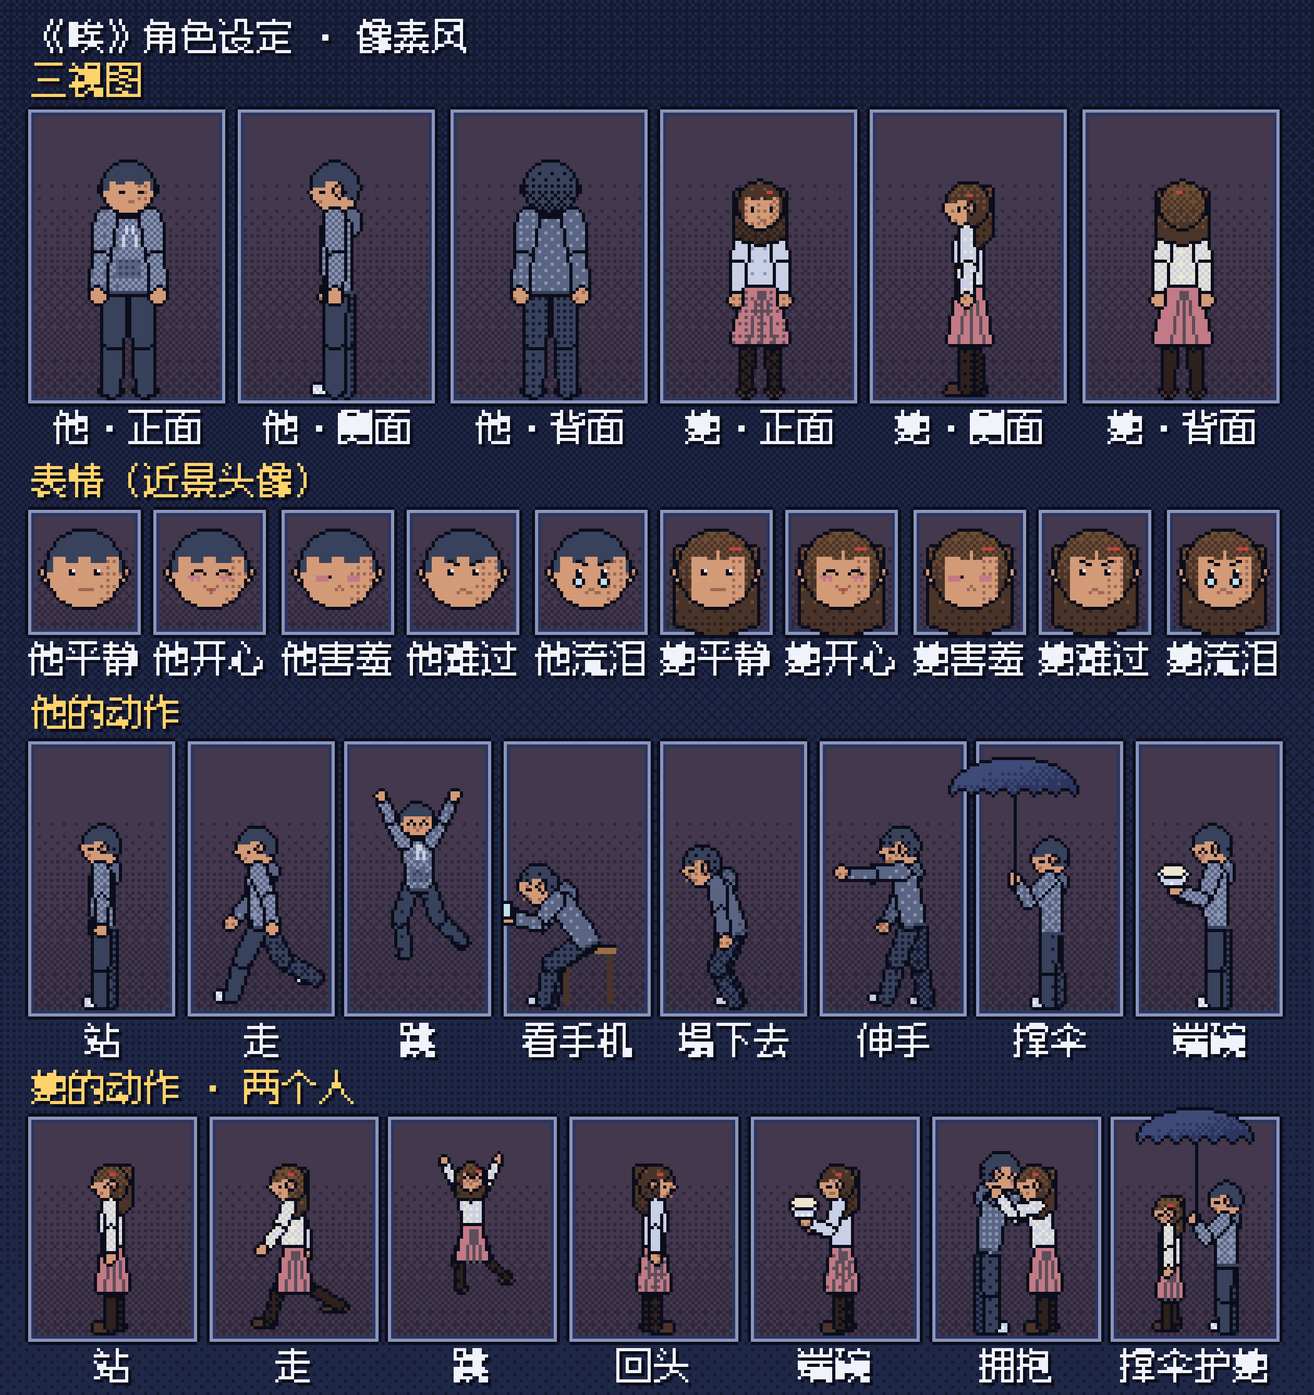
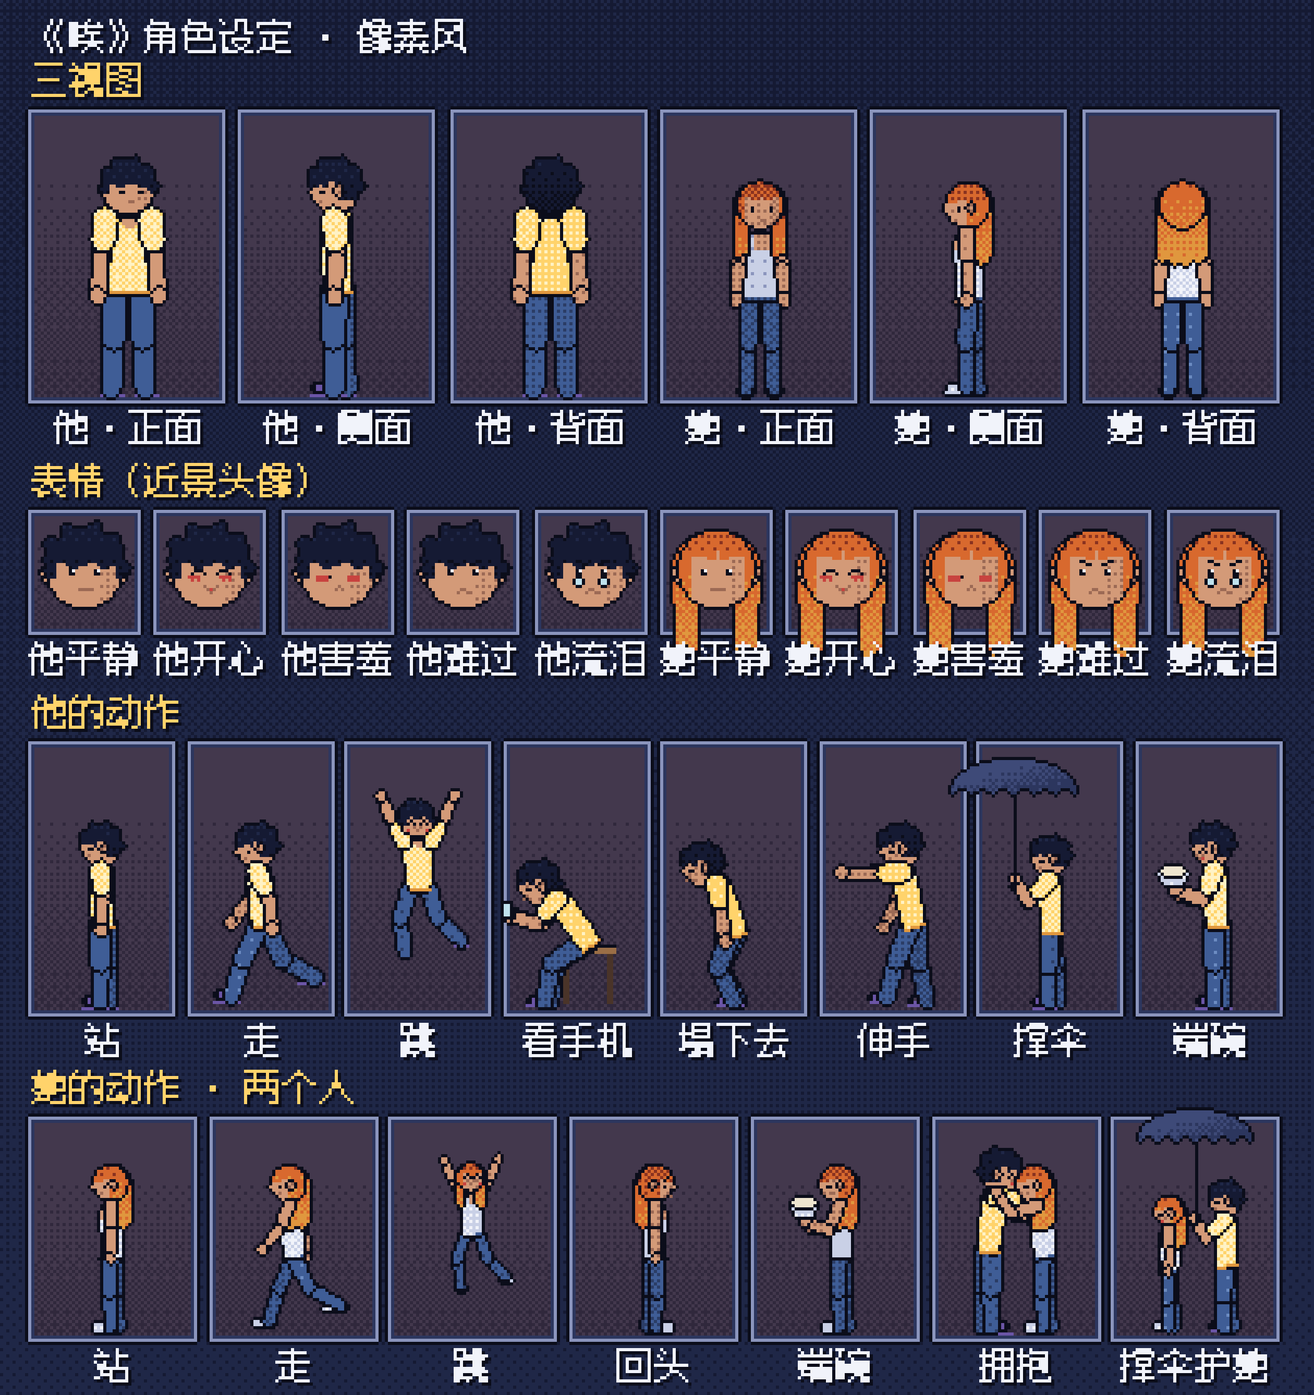
唉：角色造型按专辑封面（黄T牛仔裤/橙红长发白吊带），他的发型按参考照

diff --git a/projects/zhangfangzhao-ai/character.js b/projects/zhangfangzhao-ai/character.js
@@ -1,6 +1,7 @@
 /* character.js：《唉》的两个主角，像素风（依赖 lib/pixel.js）。
-   他 'him'：24 岁，灰蓝卫衣（背后搭着帽子）、深色裤子、白球鞋，短黑发。
-   她 'her'：只在回忆里出现，齐肩棕发、右边一枚红发夹，米白毛衣、豆沙粉半身裙、棕色小皮鞋。
+   造型按专辑封面（衣着、发色）和用户给的参考照（他的发型）：
+   他 'him'：24 岁，蓬松凌乱的黑发、刘海盖到眉上；黄色短袖 T 恤、牛仔裤、紫色拖鞋。SPEC.him.sleeve = 0 即换成黄背心。
+   她 'her'：只在回忆里出现，过肩的橙红长发（发根深、发尾亮）；白色吊带背心、牛仔裤、白色帆布鞋。
    整个人直接光栅化在 320×240 的逻辑画布上：每段身体一个形状，自动描 1 像素墨蓝轮廓，按光抖动上色。
    骨架算姿势，但时间按一秒 12 张取整、走路固定 4 帧、位置取整 —— 看起来是逐帧换画，不是补间。
 
@@ -24,10 +25,10 @@
   const { RAMP, C, clamp, lerp, smooth, rnd } = window.PIX;
   const TAU = Math.PI * 2, REF = 600;
   const SPEC = {
-    him: { headR: 66, sw: 60, hw: 34, upper: 108, fore: 92, thigh: 140, shin: 132, armR: [27, 22, 21, 18], legR: [31, 27, 26, 22],
-      top: RAMP.hood, bottom: RAMP.pants, hair: RAMP.hairHim, shoe: RAMP.shoeHim },
-    her: { headR: 64, sw: 50, hw: 30, upper: 100, fore: 88, thigh: 140, shin: 132, armR: [22, 19, 18, 16], legR: [21, 18, 17, 15],
-      top: RAMP.sweater, bottom: [0, 13], skirt: RAMP.skirt, hair: RAMP.hairHer, shoe: RAMP.shoeHer },
+    him: { headR: 66, sw: 60, hw: 34, upper: 108, fore: 92, thigh: 140, shin: 132, armR: [25, 21, 20, 17], legR: [32, 28, 27, 24],
+      top: RAMP.tee, sleeve: 0.5, bottom: RAMP.jeans, hair: RAMP.hairHim, shoe: 'slide' },
+    her: { headR: 64, sw: 50, hw: 30, upper: 100, fore: 88, thigh: 140, shin: 132, armR: [19, 17, 16, 14], legR: [25, 22, 21, 18],
+      top: RAMP.cami, sleeve: 0, bottom: RAMP.jeans, hair: RAMP.hairHer, shoe: RAMP.shoeHer },
   };
   const HIP_Y = -280, TORSO = 175, NECK = 24;
   const dir = (a) => [Math.sin(a), Math.cos(a)];
@@ -102,12 +103,16 @@
     const toU = (x) => (x - cx) * flip, toV = (y) => y - cy;
     const big = R >= 10;
     const skinC = (x, y) => G.dith(RAMP.skin, 0.55 + L(x, y) * 0.9 - (toU(x) > 0.3 * R && view !== 'side' ? 0.3 : 0), x, y);
-    const hairC = (x, y) => G.dith(S.hair, 0.35 + L(x, y) * (who === 'her' ? 1.6 : 0.9) - toV(y) / (R * 3), x, y);
+    const hairC = who === 'her' ? (x, y) => G.dith(S.hair, 0.3 + L(x, y) * 1.3 + toV(y) / (R * 3.2), x, y)   // 发根深、发尾亮
+      : (x, y) => G.dith(S.hair, 0.3 + L(x, y) * 0.9 - toV(y) / (R * 3), x, y);
     // 她：脑后的长发（在脸后面）
     if (who === 'her') {
-      const back = view === 'side' ? (u, v) => u > -0.15 * R && u < 1.12 * R && v > -0.85 * R && v < 1.85 * R - Math.max(0, u - 0.6 * R) * 0.8
-        : (u, v) => Math.abs(u) < 1.1 * R && v > -0.6 * R && v < 1.8 * R - Math.abs(u) * 0.3;
-      G.shape([cx - 1.3 * R, cy - R, cx + 1.3 * R, cy + 2 * R], (x, y) => back(toU(x), toV(y)), hairC, 0);
+      const jag = (u) => (Math.floor((u + 3 * R) / Math.max(1.5, R * 0.3)) % 2 ? 0.16 * R : 0);
+      const back = view === 'side' ? (u, v) => u > -0.15 * R && u < 1.15 * R && v > -0.85 * R && v < 2.7 * R - Math.max(0, u - 0.7 * R) * 0.6 - jag(u)
+        : view === 'back' ? (u, v) => Math.abs(u) < 1.15 * R && v > -0.6 * R && v < 2.8 * R - Math.abs(u) * 0.25 - jag(u)
+        : (u, v) => (Math.abs(u) < 1.15 * R && v > -0.6 * R && v < 0.95 * R) || (Math.abs(u) > 0.5 * R && Math.abs(u) < 1.12 * R && v < 2.3 * R - jag(u));
+      const round = (u, v) => v > 0 || (u / (1.15 * R)) ** 2 + (v / (1.02 * R)) ** 2 <= 1;   // 头顶是圆的，不出方角
+      G.shape([cx - 1.3 * R, cy - R, cx + 1.3 * R, cy + 3 * R], (x, y) => { const u = toU(x), v = toV(y); return round(u, v) && back(u, v); }, hairC, 0);
     }
     // 耳朵（正面、背面两边各一个）
     if (view !== 'side') [-1, 1].forEach((s) => G.ellipse(cx + s * R * 0.98, cy + R * 0.1, Math.max(0.8, R * 0.16), Math.max(1, R * 0.24), skinC, 0));
@@ -116,15 +121,24 @@
       : (u, v) => (u / R) ** 2 + (v / (1.02 * R)) ** 2 <= 1;
     let hair;
     if (view === 'back') hair = () => true;
-    else if (who === 'him') hair = view === 'side'
-      ? (u, v) => v < -0.32 * R || (u > 0.1 * R && v < 0.42 * R - Math.max(0, 0.6 * R - u) * 0.2) || (u < -0.45 * R && v < -0.12 * R)
-      : (u, v) => v < -0.22 * R - (Math.floor((u + 2 * R) / Math.max(1.5, R * 0.36)) % 2 ? 0.14 * R : 0) || (Math.abs(u) > 0.84 * R && v < 0.05 * R);
+    else if (who === 'him') {
+      const zig = (u) => (Math.floor((u + 3 * R) / Math.max(1.5, R * 0.28)) % 3) * 0.09 * R;
+      hair = view === 'side'
+        ? (u, v) => v < -0.3 * R || (u > 0.05 * R && v < 0.5 * R - Math.max(0, 0.5 * R - u) * 0.3) || (u < -0.3 * R && v < -0.02 * R - zig(u))
+        : (u, v) => v < -0.06 * R - zig(u) || (Math.abs(u) > 0.8 * R && v < 0.2 * R);
+    }
     else hair = view === 'side'
       ? (u, v) => v < -0.36 * R || u > -0.08 * R && v < 0.95 * R || (u < -0.5 * R && v < -0.18 * R)
       : (u, v) => v < -0.3 * R - Math.abs(u) * 0.12 + (Math.abs(u) < 0.08 * R ? -0.2 * R : 0) || Math.abs(u) > 0.74 * R;
+    // 他的蓬发：比头大一圈、边上一簇一簇翘起来；先垫在脸后面，画完脸再把脸上沿的轮廓线盖掉
+    const blob = (u, v) => { const yy = v + 0.16 * R, a = Math.atan2(yy, u), b = 1 + 0.09 * Math.sin(a * 9 + 0.7) + 0.05 * Math.sin(a * 14);
+      const lim = view === 'side' ? (v < -0.05 * R || (u > 0 && v < 0.45 * R)) : v < 0.12 * R;
+      return lim && (u / (1.1 * R)) ** 2 + (yy / (1.0 * R)) ** 2 <= b * b; };
+    const hb = [cx - 1.4 * R, cy - 1.4 * R, cx + 1.4 * R, cy + 1.2 * R];
+    if (who === 'him') G.shape(hb, (x, y) => blob(toU(x), toV(y)), hairC, 0);
     G.shape([cx - 1.2 * R, cy - 1.1 * R, cx + 1.2 * R, cy + 1.1 * R], (x, y) => face(toU(x), toV(y)), (x, y) => (hair(toU(x), toV(y)) ? hairC(x, y) : skinC(x, y)), 0);
+    if (who === 'him') G.shape(hb, (x, y) => { const u = toU(x), v = toV(y); return blob(u, v) && (hair(u, v) || !face(u, v)); }, hairC, null);
     if (view === 'side') G.ellipse(cx + flip * R * 0.16, cy + R * 0.12, Math.max(0.8, R * 0.13), Math.max(1, R * 0.2), (x, y) => G.dith(RAMP.skin, 0.3 + L(x, y) * 0.6, x, y), 0);   // 侧面的耳朵
-    if (who === 'her') { const [hu, hv] = view === 'side' ? [-0.05 * R, -0.55 * R] : view === 'back' ? [-0.3 * R, -0.6 * R] : [0.3 * R, -0.58 * R]; G.rect(Math.round(cx + flip * hu), Math.round(cy + hv), Math.max(2, Math.round(R * 0.3)), Math.max(1, Math.round(R * 0.12)), C.red); }
     if (view === 'back') return;
     // 五官
     const ex = view === 'side' ? [-0.5 * R] : [-0.36 * R, 0.36 * R], ey = cy + Math.round(0.12 * R);
@@ -139,7 +153,7 @@
         else { G.px(x, ey, 0); if (R >= 7) G.px(x, ey - 1, 0); }
         if (e === 'sad' || e === 'cry') { G.px(x + inner, ey - 3, 0); G.px(x, ey - 2, 0); }
         if (e === 'cry') { G.px(x, ey + 2, C.phone); G.px(x, ey + 3, C.phone); }
-        if (e === 'shy' || e === 'happy') G.px(x - inner * (view === 'side' ? 0 : 1), ey + 2, C.pink);
+        if (e === 'shy' || e === 'happy') G.px(x - inner * (view === 'side' ? 0 : 1), ey + 2, C.blush);
         return;
       }
       const s = R / 14;   // 细节版：头半径 14 时的像素尺寸
@@ -148,7 +162,7 @@
       else { G.ellipse(x, ey, Math.max(1, 1.2 * s), Math.max(1.4, 1.9 * s), 0, null); G.px(x - Math.round(0.5 * s), ey - Math.round(0.9 * s), C.white); }
       if (e === 'sad' || e === 'cry') G.line(x + inner * Math.round(2 * s), ey - Math.round(3.2 * s), x - inner * Math.round(1.6 * s), ey - Math.round(4.4 * s), 0);
       if (e === 'cry') { G.ellipse(x - inner * Math.round(0.4 * s), ey + Math.round(3.6 * s), Math.max(1, 0.9 * s), Math.max(1.2, 1.4 * s), C.phone, 0); }
-      if (e === 'shy' || e === 'happy') G.ellipse(x - inner * Math.round(1.2 * s) * (view === 'side' ? 0 : 1), ey + Math.round(2.8 * s), 2.2 * s, 1 * s, (xx, yy) => G.dith([C.skin, C.pink], e === 'shy' ? 1.1 : 0.7, xx, yy), null);
+      if (e === 'shy' || e === 'happy') G.ellipse(x - inner * Math.round(1.2 * s) * (view === 'side' ? 0 : 1), ey + Math.round(2.8 * s), 2.2 * s, 1 * s, (xx, yy) => G.dith([C.skin, C.blush], e === 'shy' ? 1.1 : 0.7, xx, yy), null);
     });
     const mx = X(mU), w = big ? Math.max(1, Math.round(R * 0.14)) : 1;
     if (e === 'happy') { G.line(mx - w, my - 1, mx, my + (big ? 1 : 0), C.skinDk); G.line(mx, my + (big ? 1 : 0), mx + w, my - 1, C.skinDk); if (big) G.px(mx, my, 31); }
@@ -166,34 +180,49 @@
     const shade = (ramp, base, gain = 1.4) => (x, y) => G.dith(ramp, base + light(x, y) * gain, x, y);
     const r = (v) => Math.max(1, v * k);
     const drawArm = (A, far) => {
-      const top = shade(S.top, far ? 0.1 : 0.55);
-      G.limb(W(A.sh), W(A.el), r(S.armR[0]), r(S.armR[1]), top);
-      G.limb(W(A.el), W(A.wr), r(S.armR[2]), r(S.armR[3]), top);
-      const hd = W(add(A.wr, dir(A.f), 6)); G.ellipse(hd[0], hd[1], r(S.armR[3] + 2), r(S.armR[3] + 3), shade(RAMP.skin, far ? 0.1 : 0.5, 0.9), 0);
+      const sk = shade(RAMP.skin, far ? 0.1 : 0.5, 0.9);
+      G.limb(W(A.sh), W(A.el), r(S.armR[0]), r(S.armR[1]), sk);
+      G.limb(W(A.el), W(A.wr), r(S.armR[2]), r(S.armR[3]), sk);
+      const hd = W(add(A.wr, dir(A.f), 6)); G.ellipse(hd[0], hd[1], r(S.armR[3] + 2), r(S.armR[3] + 3), sk, 0);
+      if (S.sleeve > 0) { const m = add(A.sh, dir(A.s), S.upper * S.sleeve); G.limb(W(A.sh), W(m), r(S.armR[0] + 6), r(S.armR[0] + 4), shade(S.top, far ? 0.2 : 0.75, 1.3)); }
     };
     const drawLeg = (Lg, far) => {
       const b = shade(S.bottom, far ? 0 : 0.35, 1.0);
       const an = W(Lg.an);
-      if (J.side) { const toe = mx; G.poly([[an[0] - toe * r(56), an[1] - r(10)], [an[0] + toe * r(20), an[1] - r(12)], [an[0] + toe * r(22), an[1] + r(14)], [an[0] - toe * r(60), an[1] + r(14)]], shade(S.shoe, far ? 0.2 : 0.6, 1.2), 0); }
+      const toe = mx, sk = shade(RAMP.skin, far ? 0.1 : 0.45, 0.8);
+      if (S.shoe === 'slide') {
+        if (J.side) {
+          G.poly([[an[0] - toe * r(54), an[1] - r(4)], [an[0] + toe * r(16), an[1] - r(10)], [an[0] + toe * r(18), an[1] + r(10)], [an[0] - toe * r(58), an[1] + r(10)]], sk, 0);
+          G.poly([[an[0] - toe * r(46), an[1] - r(8)], [an[0] - toe * r(6), an[1] - r(12)], [an[0] - toe * r(4), an[1] + r(6)], [an[0] - toe * r(48), an[1] + r(6)]], shade(RAMP.slide, far ? 0.2 : 0.8, 0.6), 0);
+          G.line(an[0] - toe * r(62), an[1] + r(14), an[0] + toe * r(22), an[1] + r(14), C.slipper);
+        } else { G.ellipse(an[0], an[1] + r(4), r(24), r(12), sk, 0); G.rect(Math.round(an[0] - r(22)), Math.round(an[1] - r(2)), Math.round(r(44)), Math.max(1, Math.round(r(9))), C.slipper); G.line(an[0] - r(26), an[1] + r(16), an[0] + r(26), an[1] + r(16), C.slipper); }
+      } else if (J.side) G.poly([[an[0] - toe * r(56), an[1] - r(10)], [an[0] + toe * r(20), an[1] - r(12)], [an[0] + toe * r(22), an[1] + r(14)], [an[0] - toe * r(60), an[1] + r(14)]], shade(S.shoe, far ? 0.2 : 0.6, 1.2), 0);
       else G.ellipse(an[0], an[1] + r(4), r(28), r(14), shade(S.shoe, 0.6, 1.2), 0);
       G.limb(W(Lg.kn), W(Lg.an), r(S.legR[2]), r(S.legR[3]), b);
       G.limb(W(Lg.hp), W(Lg.kn), r(S.legR[0]), r(S.legR[1]), b);
     };
     const rot = (p) => { const th = -J.P.lean, c = Math.cos(th), s = Math.sin(th); return W([J.hip[0] + p[0] * c - p[1] * s, J.hip[1] + p[0] * s + p[1] * c]); };
+    const toLocal = (x, y) => { const dx = (x - ox) / (k * mx * J.P.sx) - J.hip[0], dy = (y - oy) / (k * J.P.sy) - J.hip[1], c = Math.cos(J.P.lean), s = Math.sin(J.P.lean); return [dx * c - dy * s, dx * s + dy * c]; };
     const drawTorso = () => {
       const side = J.side, sw = side ? 40 : S.sw + 8, hw = side ? 34 : S.hw + 12;
       const body = [[-hw, 18], [hw, 18], [hw + 4, -40], [sw, -TORSO + 20], [sw - 16, -TORSO - 4], [-sw + 16, -TORSO - 4], [-sw, -TORSO + 20], [-hw - 4, -40]].map(rot);
-      const top = shade(S.top, 0.5, 1.5);
-      if (o.who === 'him' && J.view !== 'front') { const c = rot(side ? [32, -TORSO + 6] : [0, -TORSO + 34]); G.ellipse(c[0], c[1], r(side ? 30 : 54), r(side ? 44 : 40), shade(S.top, 0.2, 1.2), 0); }   // 帽子
-      G.poly(body, top, 0);
-      if (o.who === 'him') {
-        if (J.view === 'front') { G.poly([[-40, -16], [40, -16], [32, -66], [-32, -66]].map(rot), shade(S.top, 0, 1.2), null); const a = rot([-12, -TORSO + 10]), b = rot([-13, -TORSO + 64]), c = rot([12, -TORSO + 10]), d = rot([13, -TORSO + 64]); G.line(a[0], a[1], b[0], b[1], 7); G.line(c[0], c[1], d[0], d[1], 7); }
-        const h0 = rot([-hw, 10]), h1 = rot([hw, 10]); G.line(h0[0], h0[1], h1[0], h1[1], S.top[0]);   // 下摆罗纹
-      } else if (o.who === 'her') {
-        const sk = [[-(side ? 34 : 44), -22], [side ? 34 : 44, -22], [side ? 64 : 86, 140], [-(side ? 64 : 86), 140]].map((p) => W([J.hip[0] + p[0], J.hip[1] + p[1]]));
-        G.poly(sk, shade(S.skirt, 0.45, 1.2), 0);
-        for (const f of [-0.4, 0, 0.4]) { const a = W([J.hip[0] + f * 34, J.hip[1] - 14]), b = W([J.hip[0] + f * 86, J.hip[1] + 132]); G.line(a[0], a[1], b[0], b[1], S.skirt[0]); }
-      }
+      const top = shade(S.top, o.who === 'him' ? 0.6 : 0.5, 1.5), skin = shade(RAMP.skin, 0.45, 0.9), jeans = shade(S.bottom, 0.35, 1.0);
+      let col;
+      if (o.who === 'him') col = (x, y) => {
+        const [lx, ly] = toLocal(x, y);
+        if (!side && J.view === 'front' && Math.abs(lx) < 24 && ly < -TORSO + 2 + 16 * (1 - (lx / 24) ** 2)) return skin(x, y);           // 圆领
+        if (S.sleeve === 0 && !side && Math.abs(lx) > sw - 18 && ly < -TORSO + 70) return skin(x, y);                                      // 背心的袖窿
+        return top(x, y);
+      };
+      else col = (x, y) => {
+        const [lx, ly] = toLocal(x, y);
+        if (ly > 4) return jeans(x, y);                                                                                                     // 吊带塞进牛仔裤
+        const strap = side ? Math.abs(lx) < 7 : Math.abs(Math.abs(lx) - S.sw * 0.55) < 7;
+        if (ly < -TORSO + 42 && !strap) return skin(x, y);                                                                                  // 露肩
+        return top(x, y);
+      };
+      G.poly(body, col, 0);
+      if (o.who === 'him') { const h0 = rot([-hw, 12]), h1 = rot([hw, 12]); G.line(h0[0], h0[1], h1[0], h1[1], S.top[0]); }               // 下摆
     };
     const drawHead = () => { const h = W(J.head); drawHeadAt(G, h[0], h[1] - (J.P.tilt > 0.3 && J.side ? 0 : 0), S.headR * k, o, J.view, mx, light); };
     const neck = () => { const a = W(J.neck), b = W(add(J.neck, [0, 20])); G.limb(a, b, r(16), r(16), shade(RAMP.skin, 0.2, 0.8), null); };

diff --git a/projects/zhangfangzhao-ai/lib/pixel.js b/projects/zhangfangzhao-ai/lib/pixel.js
@@ -12,22 +12,22 @@
   'use strict';
   const PAL = [
     '#0b0d1a', '#151a33', '#1f2747', '#2c365e', '#3e4a78', '#5a6796', '#8b95bd', '#c9d0e6', '#f1f3fa', // 0-8 墨蓝 → 冷白
-    '#221c2c', '#30283c', '#43384d', '#5e4d5a',                                                     // 9-12 墙
+    '#221c2c', '#30283c', '#43384d', '#6b55a6',                                                     // 9-11 墙，12 紫（他的拖鞋）
     '#2e211d', '#4a3429', '#6e4d35', '#9a6e46', '#c4955f',                                          // 13-17 木（13-15 也是她的头发）
-    '#39425c', '#5a6584', '#8a94b2',                                                                // 18-20 卫衣（灰蓝）
+    '#2b3d66', '#3f5d96', '#6c8cc2',                                                                // 18-20 牛仔蓝（两个人的牛仔裤）
     '#9c6a55', '#d39a78',                                                                           // 21-22 皮肤
-    '#ffd36b', '#fff2c4', '#e0973e',                                                                // 23-25 灯（全片唯一强调色）、灯芯、琥珀
+    '#ffd36b', '#fff2c4', '#e0973e',                                                                // 23-25 暖黄（灯 + 他的黄 T 恤，全片唯一强调色）、灯芯、琥珀
     '#bfe2ee',                                                                                      // 26 手机屏冷光
-    '#2f6f8a', '#62a9b9',                                                                           // 27-28 海
+    '#2f6f8a', '#d8692e',                                                                           // 27 海，28 橙（她的头发）
     '#eee5cf',                                                                                      // 29 米白（米饭、她的毛衣）
-    '#c27a86',                                                                                      // 30 豆沙粉（她的裙子）
-    '#c8433f',                                                                                      // 31 红（发夹、血条心）
+    '#8a3320',                                                                                      // 30 铁锈红（她的发根）
+    '#c8433f',                                                                                      // 31 红（血条心、脸红）
   ];
-  const C = { ink: 0, night: 1, white: 8, skin: 22, skinDk: 21, lamp: 23, bulb: 24, amber: 25, phone: 26, sea: 27, seaLt: 28, cream: 29, pink: 30, red: 31 };
+  const C = { ink: 0, night: 1, white: 8, skin: 22, skinDk: 21, lamp: 23, bulb: 24, amber: 25, phone: 26, sea: 27, orange: 28, cream: 29, rust: 30, red: 31, blush: 31, slipper: 12 };
   const RAMP = {
-    sky: [1, 2, 3, 4], cold: [4, 5, 6, 7, 8], wall: [9, 10, 11, 12], wood: [13, 14, 15, 16, 17], floor: [13, 14, 15, 16],
-    hood: [18, 19, 20], pants: [1, 18], skin: [21, 22], hairHim: [0, 18], hairHer: [13, 14, 15],
-    sweater: [6, 7, 29], skirt: [12, 30], shoeHim: [6, 7, 8], shoeHer: [13, 14], porcelain: [5, 6, 7, 8], sea: [27, 28],
+    sky: [1, 2, 3, 4], cold: [4, 5, 6, 7, 8], wall: [9, 10, 11], wood: [13, 14, 15, 16, 17], floor: [13, 14, 15, 16],
+    tee: [25, 23, 24], jeans: [18, 19, 20], skin: [21, 22], hairHim: [0, 1, 2], hairHer: [30, 28, 25],
+    cami: [6, 7, 8], slide: [11, 12], shoeHer: [6, 7, 8], porcelain: [5, 6, 7, 8], sea: [27, 6],
   };
   const RGB = PAL.map((h) => [1, 3, 5].map((i) => parseInt(h.slice(i, i + 2), 16)));
   const BAYER = [0, 8, 2, 10, 12, 4, 14, 6, 3, 11, 1, 9, 15, 7, 13, 5];

diff --git a/projects/zhangfangzhao-ai/song.md b/projects/zhangfangzhao-ai/song.md
@@ -66,10 +66,18 @@
 > 2026-11-04 用户最终选定像素风（纸艺纸偶"看着怪"，已归档到 `archive/diorama/`）。样图 `styles/pixel.png`，源码 `styles/src/pixel.html`。共用画法 `lib/pixel.js`。
 
 - **画布**：一切画在 320×240 逻辑画布上（调色板索引缓冲），整数 ×6 放大到 1920×1440，`imageSmoothingEnabled = false`。不缩放画面（会让像素大小不一），镜头只做整像素平移、切镜头
-- **调色板**（32 色，`lib/pixel.js` 的 `PAL`）：墨蓝 `#0b0d1a` 做轮廓；夜 `#151a33 → #f1f3fa` 9 级；墙 `#221c2c → #5e4d5a` 4 级；木 `#2e211d → #c4955f` 5 级；卫衣 `#39425c / #5a6584 / #8a94b2`；皮肤 `#9c6a55 / #d39a78`；海 `#2f6f8a / #62a9b9`；米白 `#eee5cf`；豆沙粉 `#c27a86`；红 `#c8433f`（发夹、血条心）
-- **强调色**：全片只有灯的暖黄 `#ffd36b`（灯芯 `#fff2c4`、琥珀 `#e0973e`）；手机屏冷光 `#bfe2ee` 只是自发光，不当强调色
+- **调色板**（32 色，`lib/pixel.js` 的 `PAL`）：墨蓝 `#0b0d1a` 做轮廓；夜 `#151a33 → #f1f3fa` 9 级；墙 `#221c2c → #5e4d5a` 4 级；木 `#2e211d → #c4955f` 5 级；牛仔蓝 `#2b3d66 / #3f5d96 / #6c8cc2`；她的发色 `#8a3320 → #d8692e → #e0973e`；拖鞋紫 `#6b55a6`；皮肤 `#9c6a55 / #d39a78`；海 `#2f6f8a / #62a9b9`；米白 `#eee5cf`；红 `#c8433f`（血条心、脸红）
+- **强调色**：全片只有暖黄 `#ffd36b`（灯芯 `#fff2c4`、琥珀 `#e0973e`）——灯光和他的黄 T 恤共用，他走到哪，画面里的暖色就在哪；手机屏冷光 `#bfe2ee` 只是自发光，不当强调色
 - **渐变和光**：一律 4×4 Bayer 有序抖动，在同一材质的色阶里按"到灯的距离"往亮处抖；不用平滑渐变、不用半透明
 - **形状**：在小画布上光栅化，每块自动描 1 像素墨蓝外轮廓；后画的块盖住前面的轮廓，关节自然分开
 - **动起来**：一秒 12 张（24 fps 每张停两帧）；走路 4 帧换画、跳 3 段（预备 / 腾空 / 落地），位置取整，不做亚像素补间；灰尘、窗外灯火按帧闪
 - **UI**：左上角三颗心（血条），亏欠越深越少；歌词进底部 RPG 对话框（墨蓝底、白 / 浅蓝 2 像素边框、缺角），Fusion Pixel 12px 中文像素字，打字机一秒 9 字，打完右下角 ▼ 闪
 - **歌词以外不加字**：对话框不放名字牌
+
+## 角色
+
+> 2026-11-04 用户定：衣着、发色严格按专辑封面；他的发型参考用户给的照片。只取造型，不复刻封面画面（构图、红字、蝴蝶、铁丝网都不进片）。
+
+- **他**：蓬松凌乱的黑发、刘海盖到眉上；黄色短袖 T 恤、牛仔裤、紫色拖鞋（封面里是短袖；要换黄背心把 `SPEC.him.sleeve` 设 0）
+- **她**：过肩的橙红长发（发根深、发尾亮）；白色吊带背心（露肩）、牛仔裤、白色帆布鞋（封面看不到鞋，自定）
+- 设定图 `character-sheet.png`，代码 `character.js`

diff --git a/.workbuddy/memory/2026-11-04.md b/.workbuddy/memory/2026-11-04.md
@@ -14,3 +14,4 @@
 - 第 3 步：lib/paper.js（共用纸片画法）、character.js（他/她两个关节纸偶，10 种动作、5 种表情、手机/碗/伞道具，handAt）、sheet.html → character-sheet.png，待用户确认
 - 用户改主意：纸偶"看着怪"，最终定像素风。纸艺角色归档 projects/zhangfangzhao-ai/archive/diorama/；.gitignore 放开 projects/*/lib/（Python 模板的 lib/ 规则误伤）
 - 第 3 步（像素版）：lib/pixel.js（32 色调色板、Bayer 抖动、光栅化+自动描边、像素字）、character.js（他/她，骨架姿势按 12 张/秒取整、走路 4 帧，5 表情 10 动作，手机/碗/伞），sheet.html → character-sheet.png（420×446 ×6），待用户确认
+- 角色按专辑封面改造型：他=蓬松黑发（参考用户给的照片）+ 黄短袖T + 牛仔裤 + 紫拖鞋；她=过肩橙红长发 + 白吊带 + 牛仔裤 + 白帆布鞋。只取造型，不复刻封面画面。调色板换了 5 格（牛仔蓝 3、发色 2、拖鞋紫 1，去掉卫衣/豆沙粉）；暖黄强调色 = 灯 + 他的T恤
